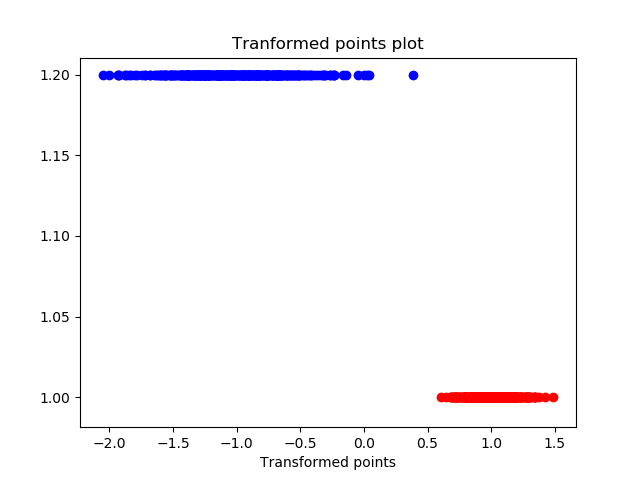
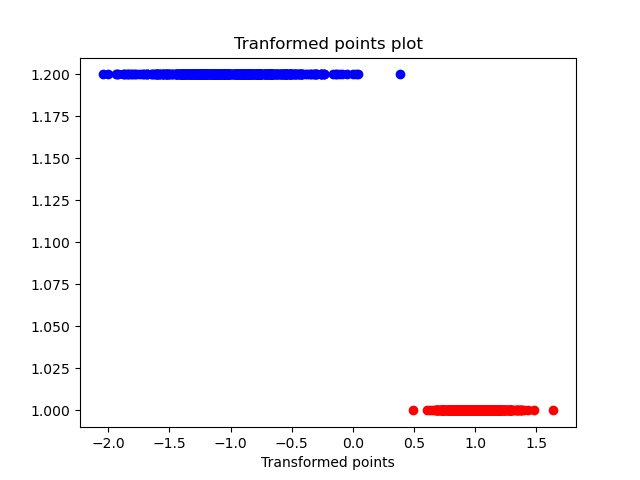
Fischer training and testing data change

diff --git a/fischer.py b/fischer.py
@@ -25,8 +25,10 @@ class Fischer:
         self.columnlabel=len(self.data[0])-1
         self.dim=self.columnlabel
         random.shuffle(self.data)
-        self.training_data=self.data[:int(len(self.data)*0.7)]
-        self.testing_data=self.data[int(len(self.data)*0.7):]
+        self.training_data=self.data
+        self.testing_data=self.data
+        # self.training_data=self.data[:int(len(self.data)*0.7)]
+        # self.testing_data=self.data[int(len(self.data)*0.7):]
         self.group_data_by_classes()
         self.calculate_means()
         self.calculate_SB_SW()
@@ -141,6 +143,8 @@ class Fischer:
                 fp+=1
             else:
                 tn+=1
+        self.precision=tp/(tp+fp)
+        self.recall=tp/(tp+fn)
         self.f_score=float(2*self.precision*self.recall)/float(self.precision+self.recall)
         self.accuracy=float(tp+tn)/float(tp+tn+fp+fn)
 
